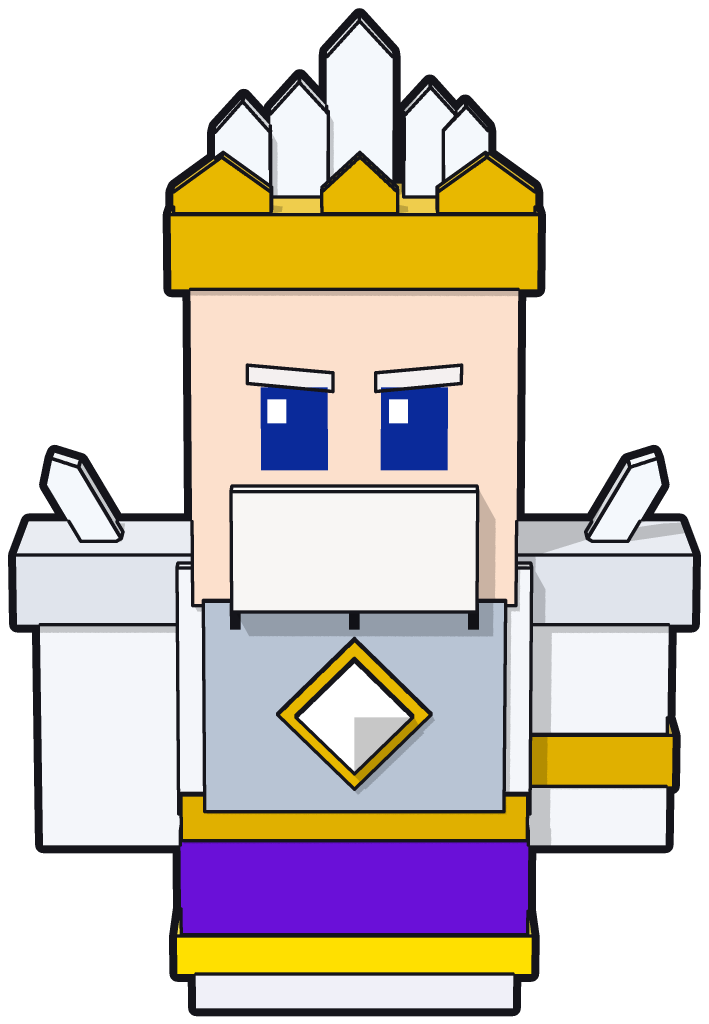
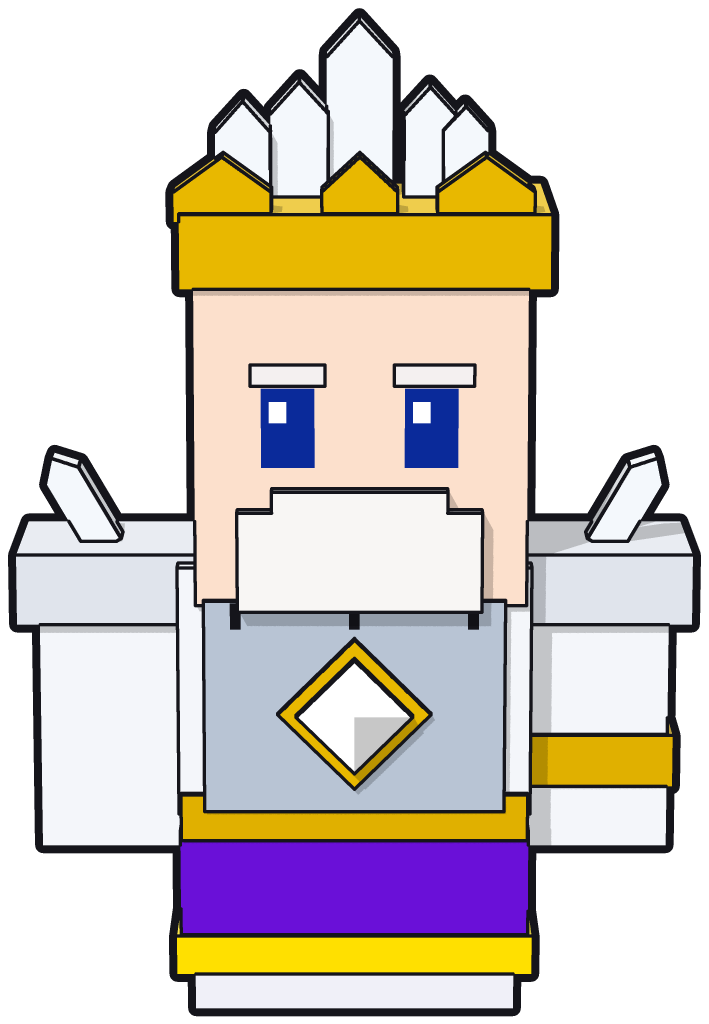
Fix Diamond Emperor face: wider-set eyes and a single-piece beard
Eyes, brows and beard re-measured on the screenshot: the eyes sit further
apart and the beard is one stepped block instead of two stacked slabs.

Claude-Session: https://claude.ai/code/session_01ULLBN6QcHc2q67qZSwLzzW

Changed region(s): [[0.3103, 0.1562, 0.8068, 0.625], [0.2172, 0.1875, 0.2793, 0.5938]]

diff --git a/art3d_noweapon/src/c3dn_diamond_emperor.py b/art3d_noweapon/src/c3dn_diamond_emperor.py
@@ -35,13 +35,12 @@ for f in BOTH:
     s.box(f(105), 438, f(244), 492, -66, 66, '#E0E4EC')
 s.box(M(242), 580, M(118), 620, -62, 62, '#E0B000')
 
-# head: face, crown band, white brows, blue eyes, white beard
-head = s.box(240, 222, M(240), 472, -90, 90, SKIN)
-s.box(226, 174, M(226), 230, -96, 96, GOLD)
-for f in BOTH:
-    head.f(P((f(282), 288), (f(346), 294), (f(346), 308), (f(282), 302)), '#F4F0F0', line=True)
-for x, hx in ((292, 297), (M(342), M(336))):
-    head.f(R(x, 305, x + 50, 368), '#0A2A9A').f(R(hx, 314, hx + 14, 332), '#FFFFFF')
-s.box(270, 380, M(270), 472, 88, 112, '#F8F6F4')
+# head: face, crown band, white brows, blue eyes (set wide apart), two-tier white beard
+head = s.box(242, 222, 492, 472, -90, 90, SKIN)
+s.box(232, 174, 508, 230, -96, 96, GOLD)
+head.f(R(284, 288, 340, 304), '#F4F0F0', line=True).f(R(392, 288, 452, 304), '#F4F0F0', line=True)
+for x, hx in ((292, 298), (400, 406)):
+    head.f(R(x, 306, x + 40, 366), '#0A2A9A').f(R(hx, 316, hx + 13, 332), '#FFFFFF')
+s.prism(P((300, 382), (432, 382), (432, 398), (458, 398), (458, 474), (274, 474), (274, 398), (300, 398)), 88, 104, '#F8F6F4')
 
 render(s, sys.argv[1])
